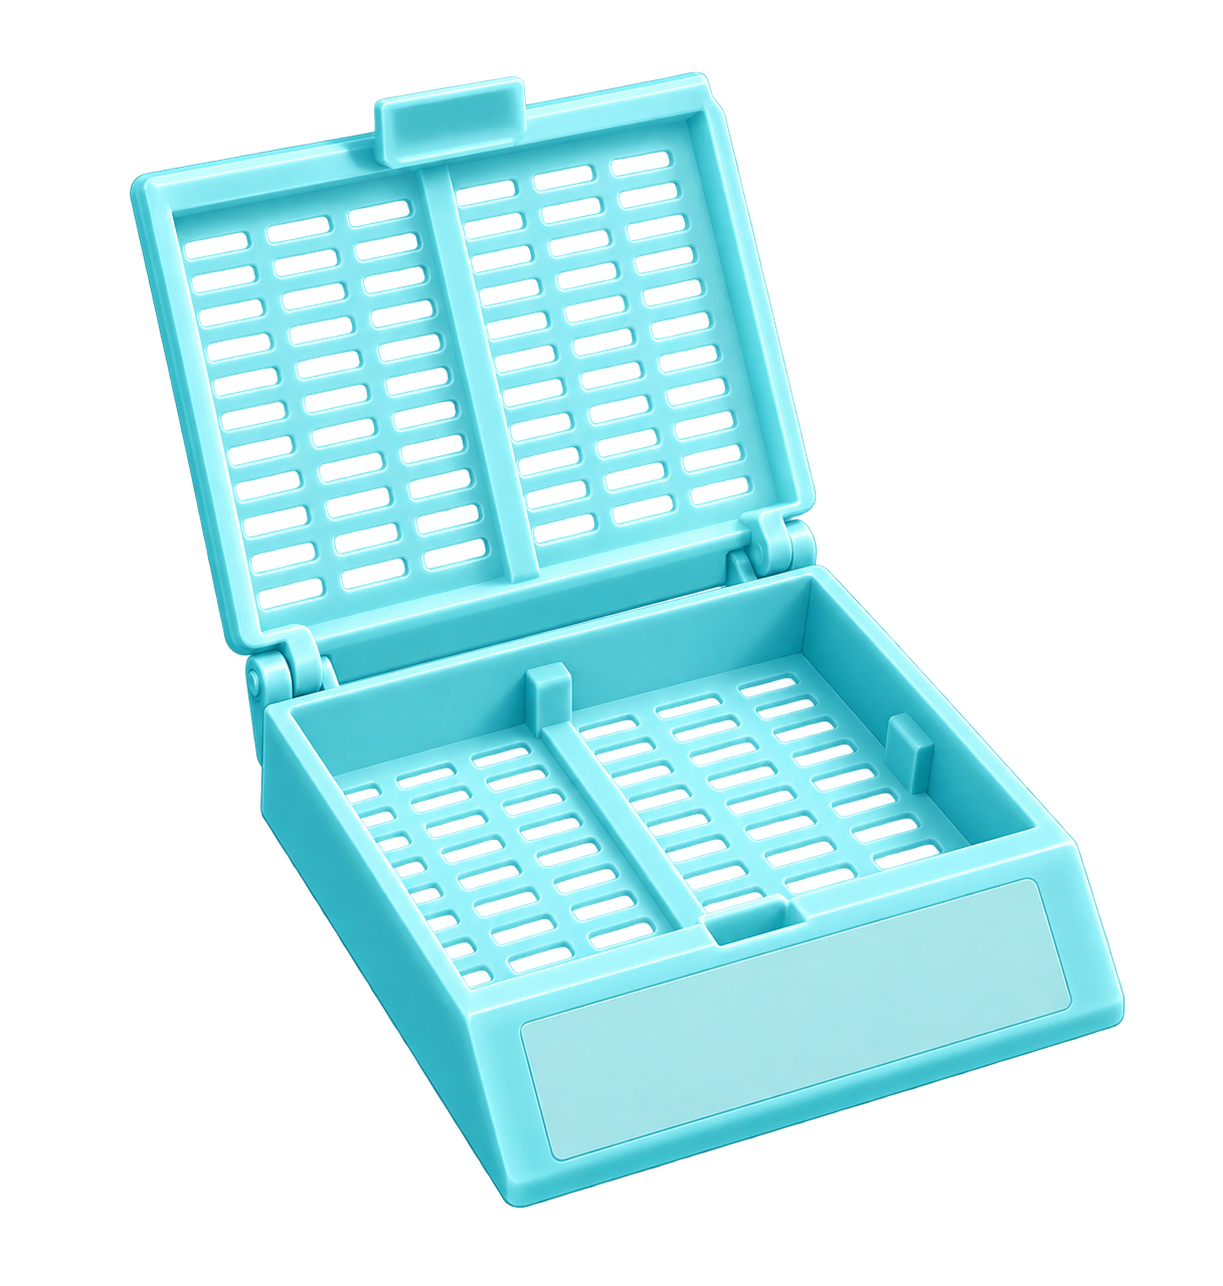
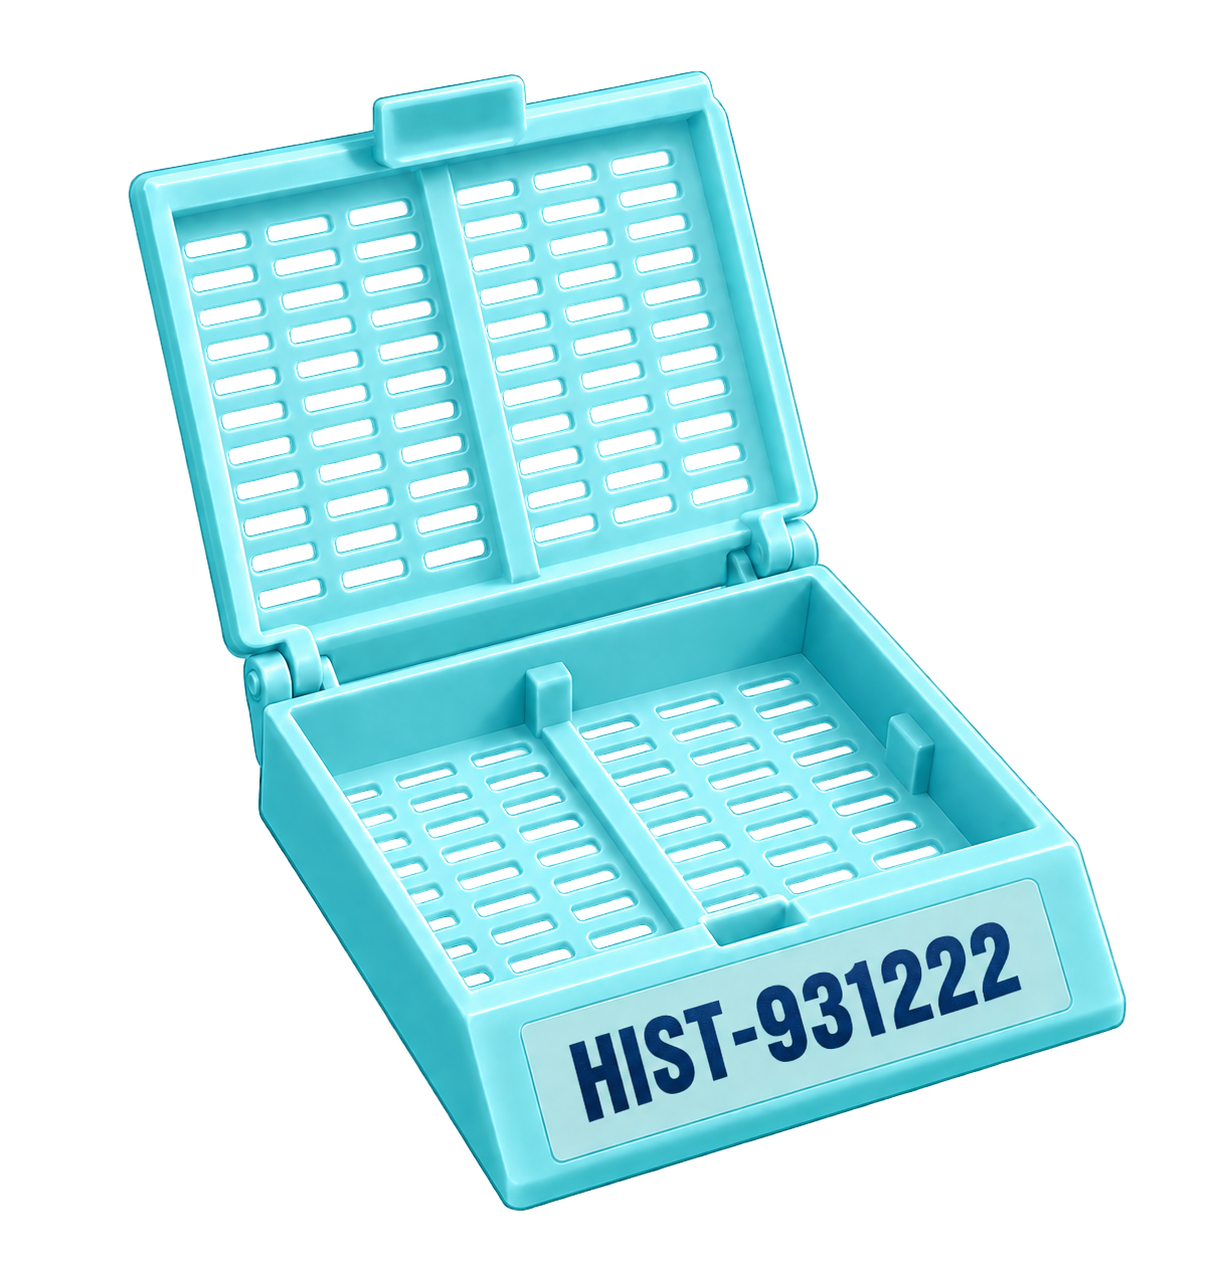
Label Histology cassettes with accession number
# Conflicts:
#	histology/index.html

diff --git a/histology/game.js b/histology/game.js
@@ -7,7 +7,7 @@
   const orientationBlocker = document.getElementById("orientationBlocker");
   const STORAGE_KEY = "sitcHistologyMission1V1";
   const HUB_STORAGE_KEY = "sitcGameProgressV2";
-  const VERSION = 7;
+  const VERSION = 8;
   let pendingFocus = null;
   let cutStart = null;
   let sequenceTimer = null;
@@ -50,7 +50,7 @@
     try {
       const saved = JSON.parse(localStorage.getItem(STORAGE_KEY));
       if (!saved || (saved.caseData && !validCase(saved.caseData))) return initialState();
-      if (![1, 2, 3, 4, 5, 6, VERSION].includes(saved.version)) return initialState();
+      if (![1, 2, 3, 4, 5, 6, 7, VERSION].includes(saved.version)) return initialState();
       const mission3 = { ...L.createMission3State(), ...(saved.mission3 || {}) };
       const mission4 = { ...L.createMission4State(), ...(saved.mission4 || {}) };
       const mission5 = { ...L.createMission5State(), ...(saved.mission5 || {}) };
@@ -60,6 +60,7 @@
         ...initialState(),
         ...saved,
         version: VERSION,
+        caseData: saved.caseData ? { ...saved.caseData, accession: L.HISTOLOGY_ACCESSION } : null,
         mission2: { ...L.createMission2State(), ...(saved.mission2 || {}) },
         mission3: L.applyMission3Action(mission3, "resume-safe"),
         mission4: L.applyMission4Action(mission4, "resume-safe"),
@@ -438,7 +439,7 @@
             <img src="assets/mission-2/virtual-scalpel.png" alt="Child-safe virtual scalpel"><span>${state.mission2.scalpelSelected ? "Scalpel selected" : "Select virtual scalpel"}</span>
           </button>
           <button class="cassette-target ${state.mission2.tissueSelected ? "ready" : ""} ${loaded ? "loaded" : ""}" type="button" data-action="mission2-place-tissue" data-drop="cassette" ${step === "transfer" ? "" : "disabled"} aria-label="${loaded ? "Histology cassette containing the tissue" : "Open empty histology cassette. Place the small tissue piece here."}">
-            <img src="assets/mission-2/${complete ? "histology-cassette-closed-loaded.png" : loaded ? "histology-cassette-open-loaded.png" : "histology-cassette-open-empty.png"}" alt="${complete ? "Closed cassette containing the patient tissue" : loaded ? "Open cassette containing the patient tissue" : "Open empty histology cassette"}"><span>${complete ? "Cassette closed safely" : loaded ? "Tissue inside cassette" : "Histology cassette"}</span>
+            <img src="assets/mission-2/${complete ? "histology-cassette-closed-loaded.png" : loaded ? "histology-cassette-open-loaded.png" : "histology-cassette-open-empty.png"}?v=2" alt="${complete ? "Closed cassette labelled HIST-931222 containing the patient tissue" : loaded ? "Open cassette labelled HIST-931222 containing the patient tissue" : "Open empty histology cassette labelled HIST-931222"}"><span>${complete ? "Cassette closed safely" : loaded ? "Tissue inside cassette" : "Histology cassette"}</span>
           </button>
         </div>
       </div>`;
@@ -519,7 +520,7 @@
   function mission3ProcessView() {
     const step = state.mission3.step;
     if (step === "question") {
-      return `<div class="mission-input-object"><img src="assets/mission-2/histology-cassette-closed-loaded.png" alt="Labelled cassette containing the accepted patient's tissue"><strong>Loaded histology cassette</strong></div>${mission3Choices()}`;
+      return `<div class="mission-input-object"><img src="assets/mission-2/histology-cassette-closed-loaded.png?v=2" alt="Cassette labelled HIST-931222 containing the accepted patient's tissue"><strong>Loaded histology cassette</strong></div>${mission3Choices()}`;
     }
     if (step === "processing") {
       return `<div class="process-stage"><img src="assets/mission-3/tissue-processor-active.png" alt="Cassette inside the active tissue processor"><div><h2>1. Process the tissue</h2><p>The cassette enters the processor so the tissue can be prepared for wax embedding.</p></div></div>`;
@@ -632,7 +633,7 @@
   function mission5Choices() {
     return `<div class="equipment-grid slide-choice-grid" aria-label="Choose where to put the thin tissue section">
       <button class="equipment-choice" type="button" data-action="mission5-choice" data-value="glass-slide"><img src="assets/mission-5/microscope-slide-blank.png" alt="Blank glass microscope slide with a frosted label end and clear viewing area"><strong>On a glass microscope slide</strong></button>
-      <button class="equipment-choice" type="button" data-action="mission5-choice" data-value="cassette"><img src="assets/mission-5/cassette-m5-distractor.png" alt="Closed histology cassette"><strong>Back into the cassette</strong></button>
+      <button class="equipment-choice" type="button" data-action="mission5-choice" data-value="cassette"><img src="assets/mission-5/cassette-m5-distractor.png?v=2" alt="Closed histology cassette labelled HIST-931222"><strong>Back into the cassette</strong></button>
       <button class="equipment-choice" type="button" data-action="mission5-choice" data-value="bin"><img src="assets/mission-5/laboratory-bin.png" alt="Closed laboratory waste bin"><strong>Into the bin</strong></button>
     </div>`;
   }

diff --git a/histology/logic.js b/histology/logic.js
@@ -10,6 +10,7 @@
     explorer: Object.freeze({ label: "Explorer", guidance: "Some guidance", minAge: 10, maxAge: 12 }),
     challenge: Object.freeze({ label: "Challenge", guidance: "Fewer clues", minAge: 13, maxAge: 16 })
   });
+  const HISTOLOGY_ACCESSION = "HIST-931222";
 
   const MISSION2_CORRECT_CHOICE = "cut-cassette";
 
@@ -367,7 +368,7 @@
       level,
       reference,
       candidates: orderCandidates(correct, incorrect, rng),
-      accession: `HIST-${String(randomInteger(100000, 999999, rng))}`
+      accession: HISTOLOGY_ACCESSION
     };
   }
 
@@ -391,6 +392,7 @@
 
   return Object.freeze({
     LEVELS,
+    HISTOLOGY_ACCESSION,
     MISSION2_CORRECT_CHOICE,
     MISSION3_CORRECT_CHOICE,
     MISSION4_CORRECT_CHOICE,

diff --git a/histology/tests/logic.test.js b/histology/tests/logic.test.js
@@ -11,6 +11,7 @@ test("generated cases obey every difficulty's identity rules", () => {
       const correct = gameCase.candidates.find((candidate) => logic.isCorrectCandidate(gameCase.reference, candidate));
       const incorrect = gameCase.candidates.find((candidate) => !logic.isCorrectCandidate(gameCase.reference, candidate));
       const age = logic.ageOn(gameCase.reference.dob, new Date());
+      assert.equal(gameCase.accession, "HIST-931222");
       assert.ok(age >= minimum && age <= maximum, `${level} age ${age}`);
       assert.equal(logic.isPatientIdValid(gameCase.reference.id, gameCase.reference.dob), true);
       assert.equal(logic.isPatientIdValid(incorrect.id, incorrect.dob), true);

diff --git a/histology/play.html b/histology/play.html
@@ -25,7 +25,7 @@
       <a href="../">Return to all laboratories</a>
     </main>
   </noscript>
-  <script src="logic.js?v=8"></script>
-  <script src="game.js?v=11"></script>
+  <script src="logic.js?v=9"></script>
+  <script src="game.js?v=12"></script>
 </body>
 </html>

diff --git a/histology/docs/MISSION_02_PREPARE_TISSUE.md b/histology/docs/MISSION_02_PREPARE_TISSUE.md
@@ -29,7 +29,7 @@ Use a clean histology grossing bench viewed from a clear, slightly elevated angl
 - one cutting board or grossing surface;
 - the accepted skin specimen, initially whole;
 - a child-safe virtual representation of a scalpel;
-- an open labelled histology cassette;
+- an open histology cassette with **HIST-931222** printed directly on its built-in writing panel;
 - three large answer controls;
 - the scientist guide strip;
 - **Mission 2 of 7** in the game bar.
@@ -56,6 +56,7 @@ The activity is educational and diagrammatic. Avoid blood, injury imagery, or gr
 - A missed swipe gives a gentle visual cue and does not count as a wrong scientific answer.
 - After a successful cut, disable further cutting.
 - Only the small cut piece is transferable to the cassette.
+- The cassette identifier **HIST-931222** is part of every cassette image state, follows the cassette surface and perspective, and is never added as a floating HTML or paper-label overlay.
 - The cassette drop zone must be larger than its visible opening.
 - If the piece is dropped elsewhere, return it to its last safe position without changing mission state.
 

diff --git a/histology/prompts/HISTOLOGY_MISSION_2_BUILD_PROMPT.md b/histology/prompts/HISTOLOGY_MISSION_2_BUILD_PROMPT.md
@@ -62,6 +62,8 @@ Copy these reviewed files from the source asset library into the matching reposi
 - `skin-tissue-whole.png`
 - `virtual-scalpel.png`
 
+Every cassette state must have **HIST-931222** printed directly on the cassette's built-in writing panel as part of the raster artwork. Match the panel perspective and lighting. Do not implement this identifier as HTML text, a floating label, a paper label, or any other overlay.
+
 Reuse only the shared Histology assets needed by the existing shell, scientist guide strip, hint/focus feedback, progress display, success state, and orientation handling. Do not duplicate assets already present. Do not substitute emoji, CSS drawings, or newly generated artwork for supplied assets.
 
 ## Mission behavior

diff --git a/histology/prompts/HISTOLOGY_MISSION_5_BUILD_PROMPT.md b/histology/prompts/HISTOLOGY_MISSION_5_BUILD_PROMPT.md
@@ -39,6 +39,8 @@ Copy and use under `histology/assets/mission-5/`:
 - `section-to-slide-diagram.svg`
 - `slide-prep-bench-background.png`
 
+The reused cassette must retain **HIST-931222** printed directly on its built-in writing panel as part of the raster artwork; never add the identifier as a UI or paper-label overlay.
+
 Reuse the actual thin-section output from Mission 4 and the existing shared shell/guide/progress/success/orientation assets. Use supplied objects with live HTML answer labels; do not add a water-bath activity or substitute artwork.
 
 ## Mission behavior

diff --git a/histology/docs/MISSION_05_PUT_SECTION_ON_SLIDE.md b/histology/docs/MISSION_05_PUT_SECTION_ON_SLIDE.md
@@ -33,7 +33,7 @@ Output: one intact tissue section positioned on a glass microscope slide, reveal
 Show the thin tissue section or ribbon and three large objects on a clean laboratory bench:
 
 1. a blank glass microscope slide;
-2. the prior histology cassette;
+2. the prior histology cassette, still visibly printed with **HIST-931222** on its built-in writing panel;
 3. a laboratory waste bin.
 
 Each object also has a visible text label matching its answer option. The slide must have a clear frosted label end and a transparent viewing area.
